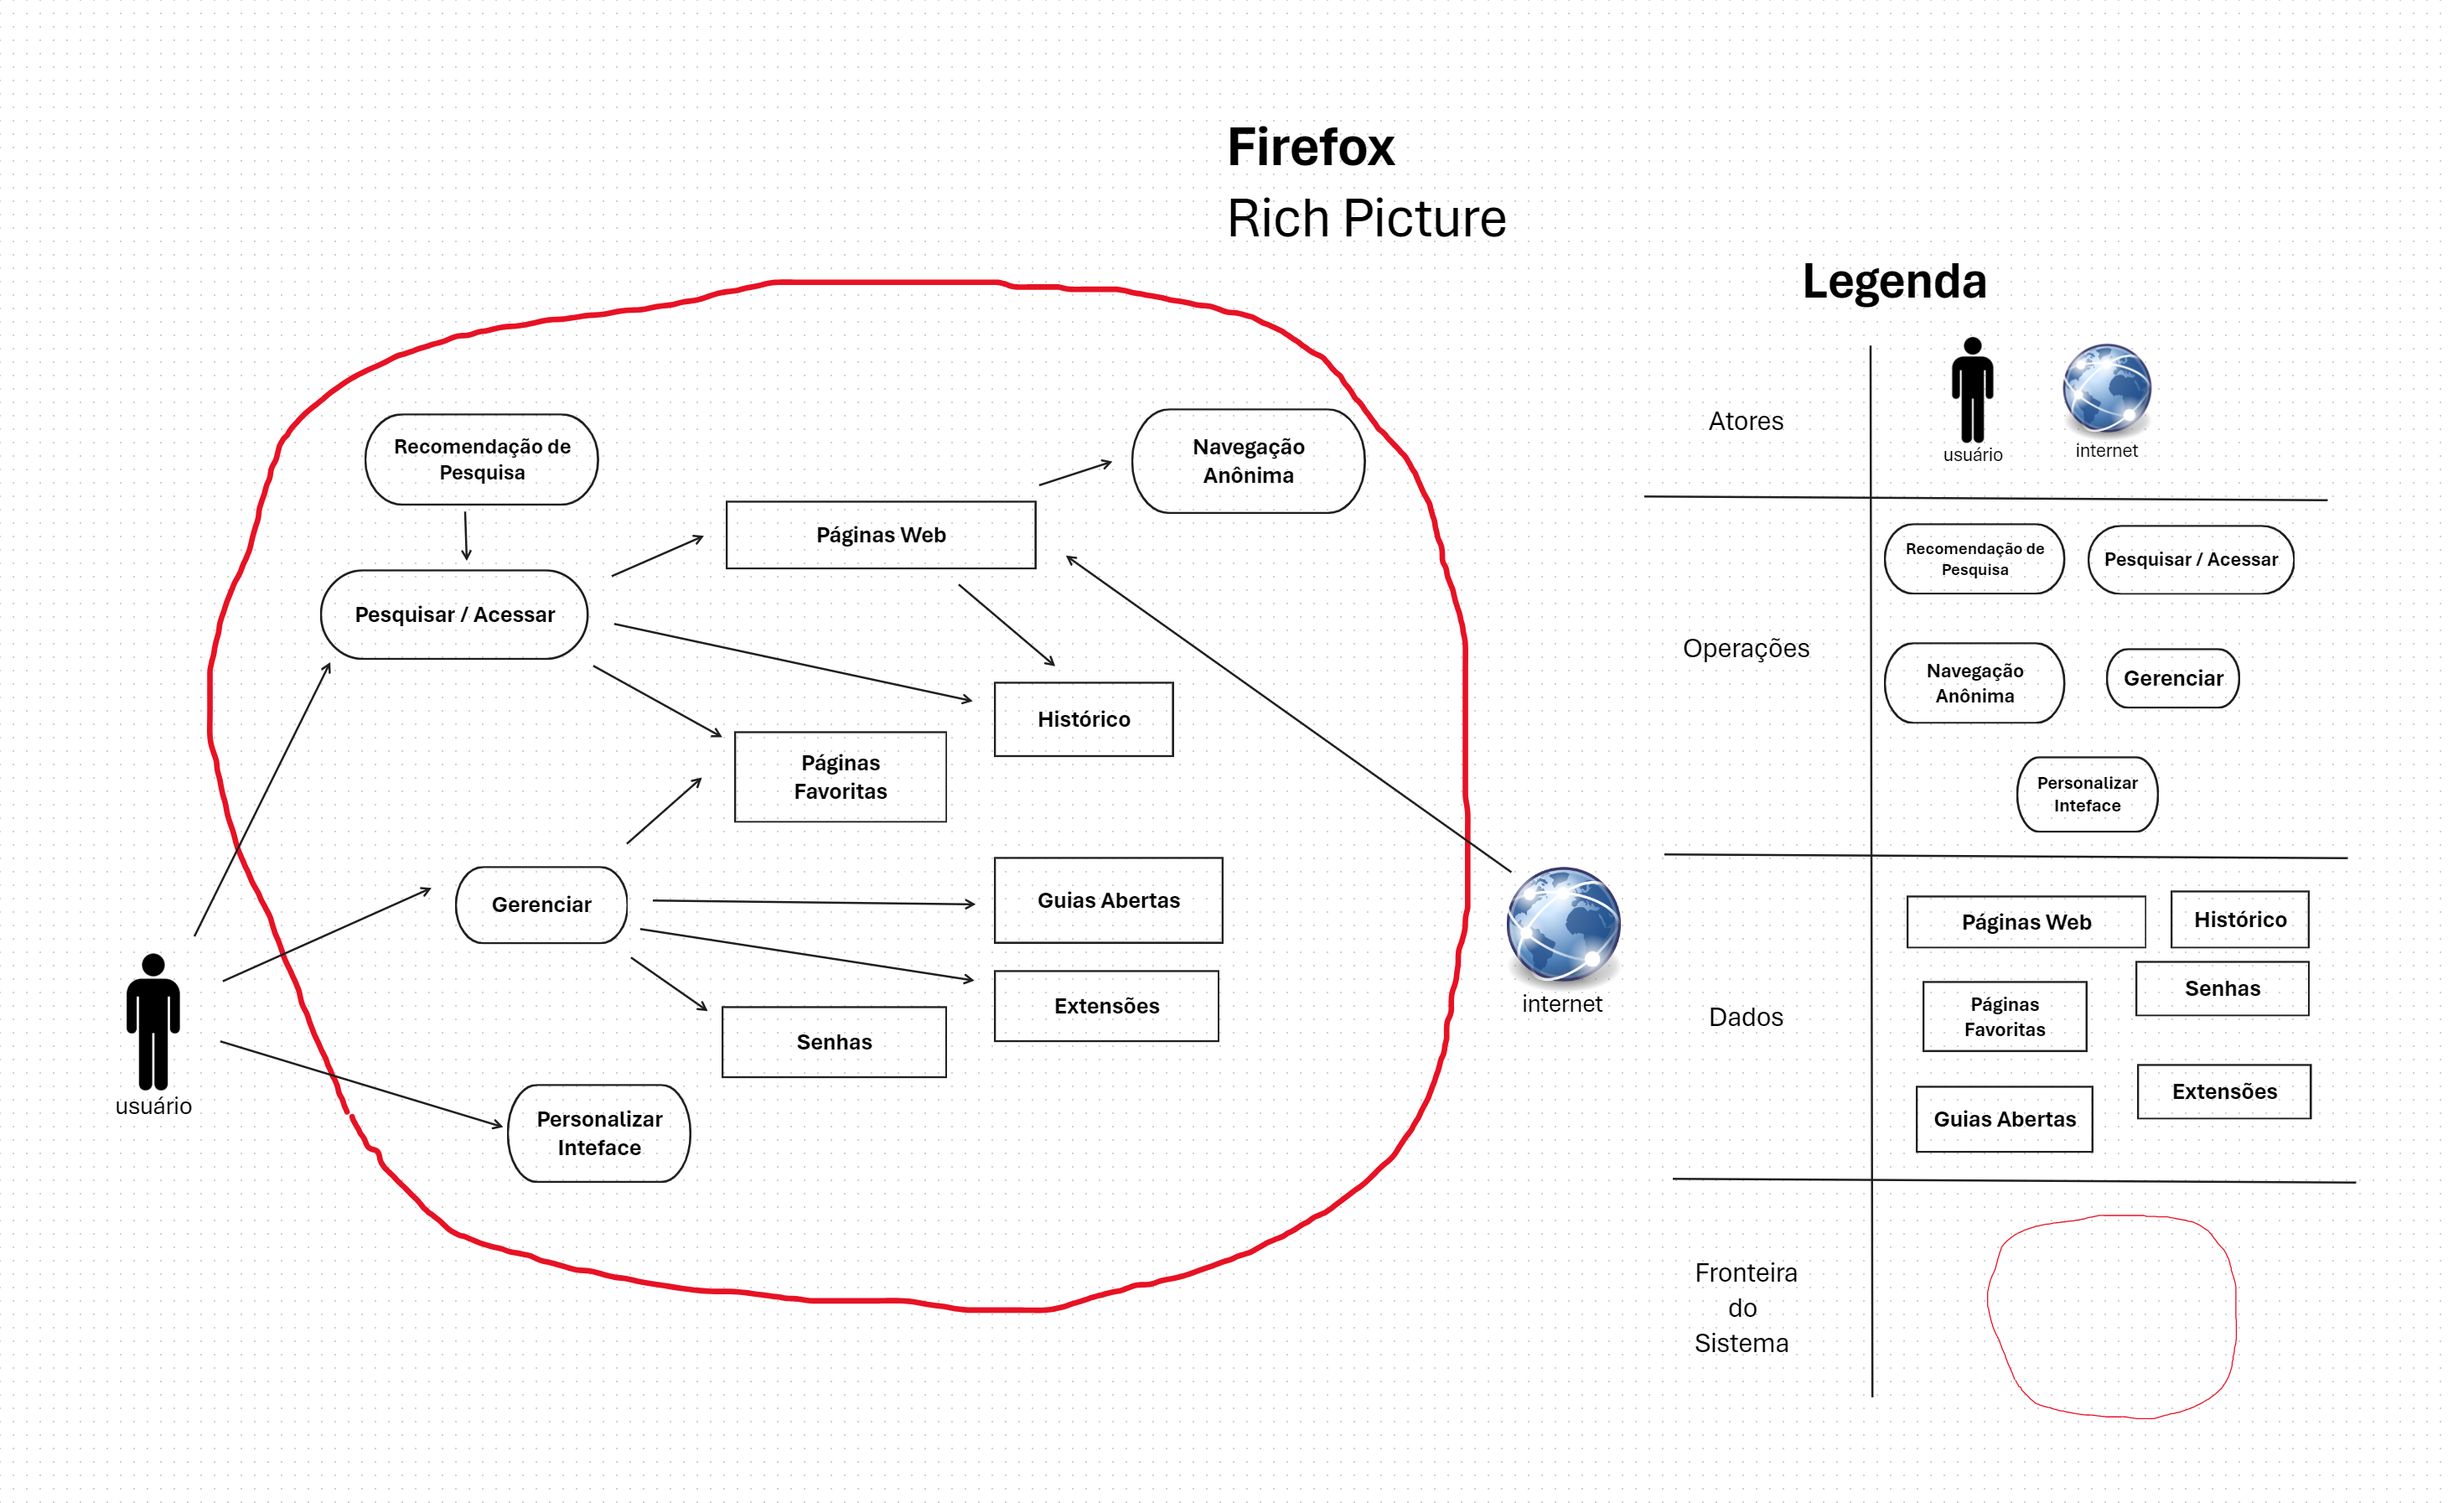
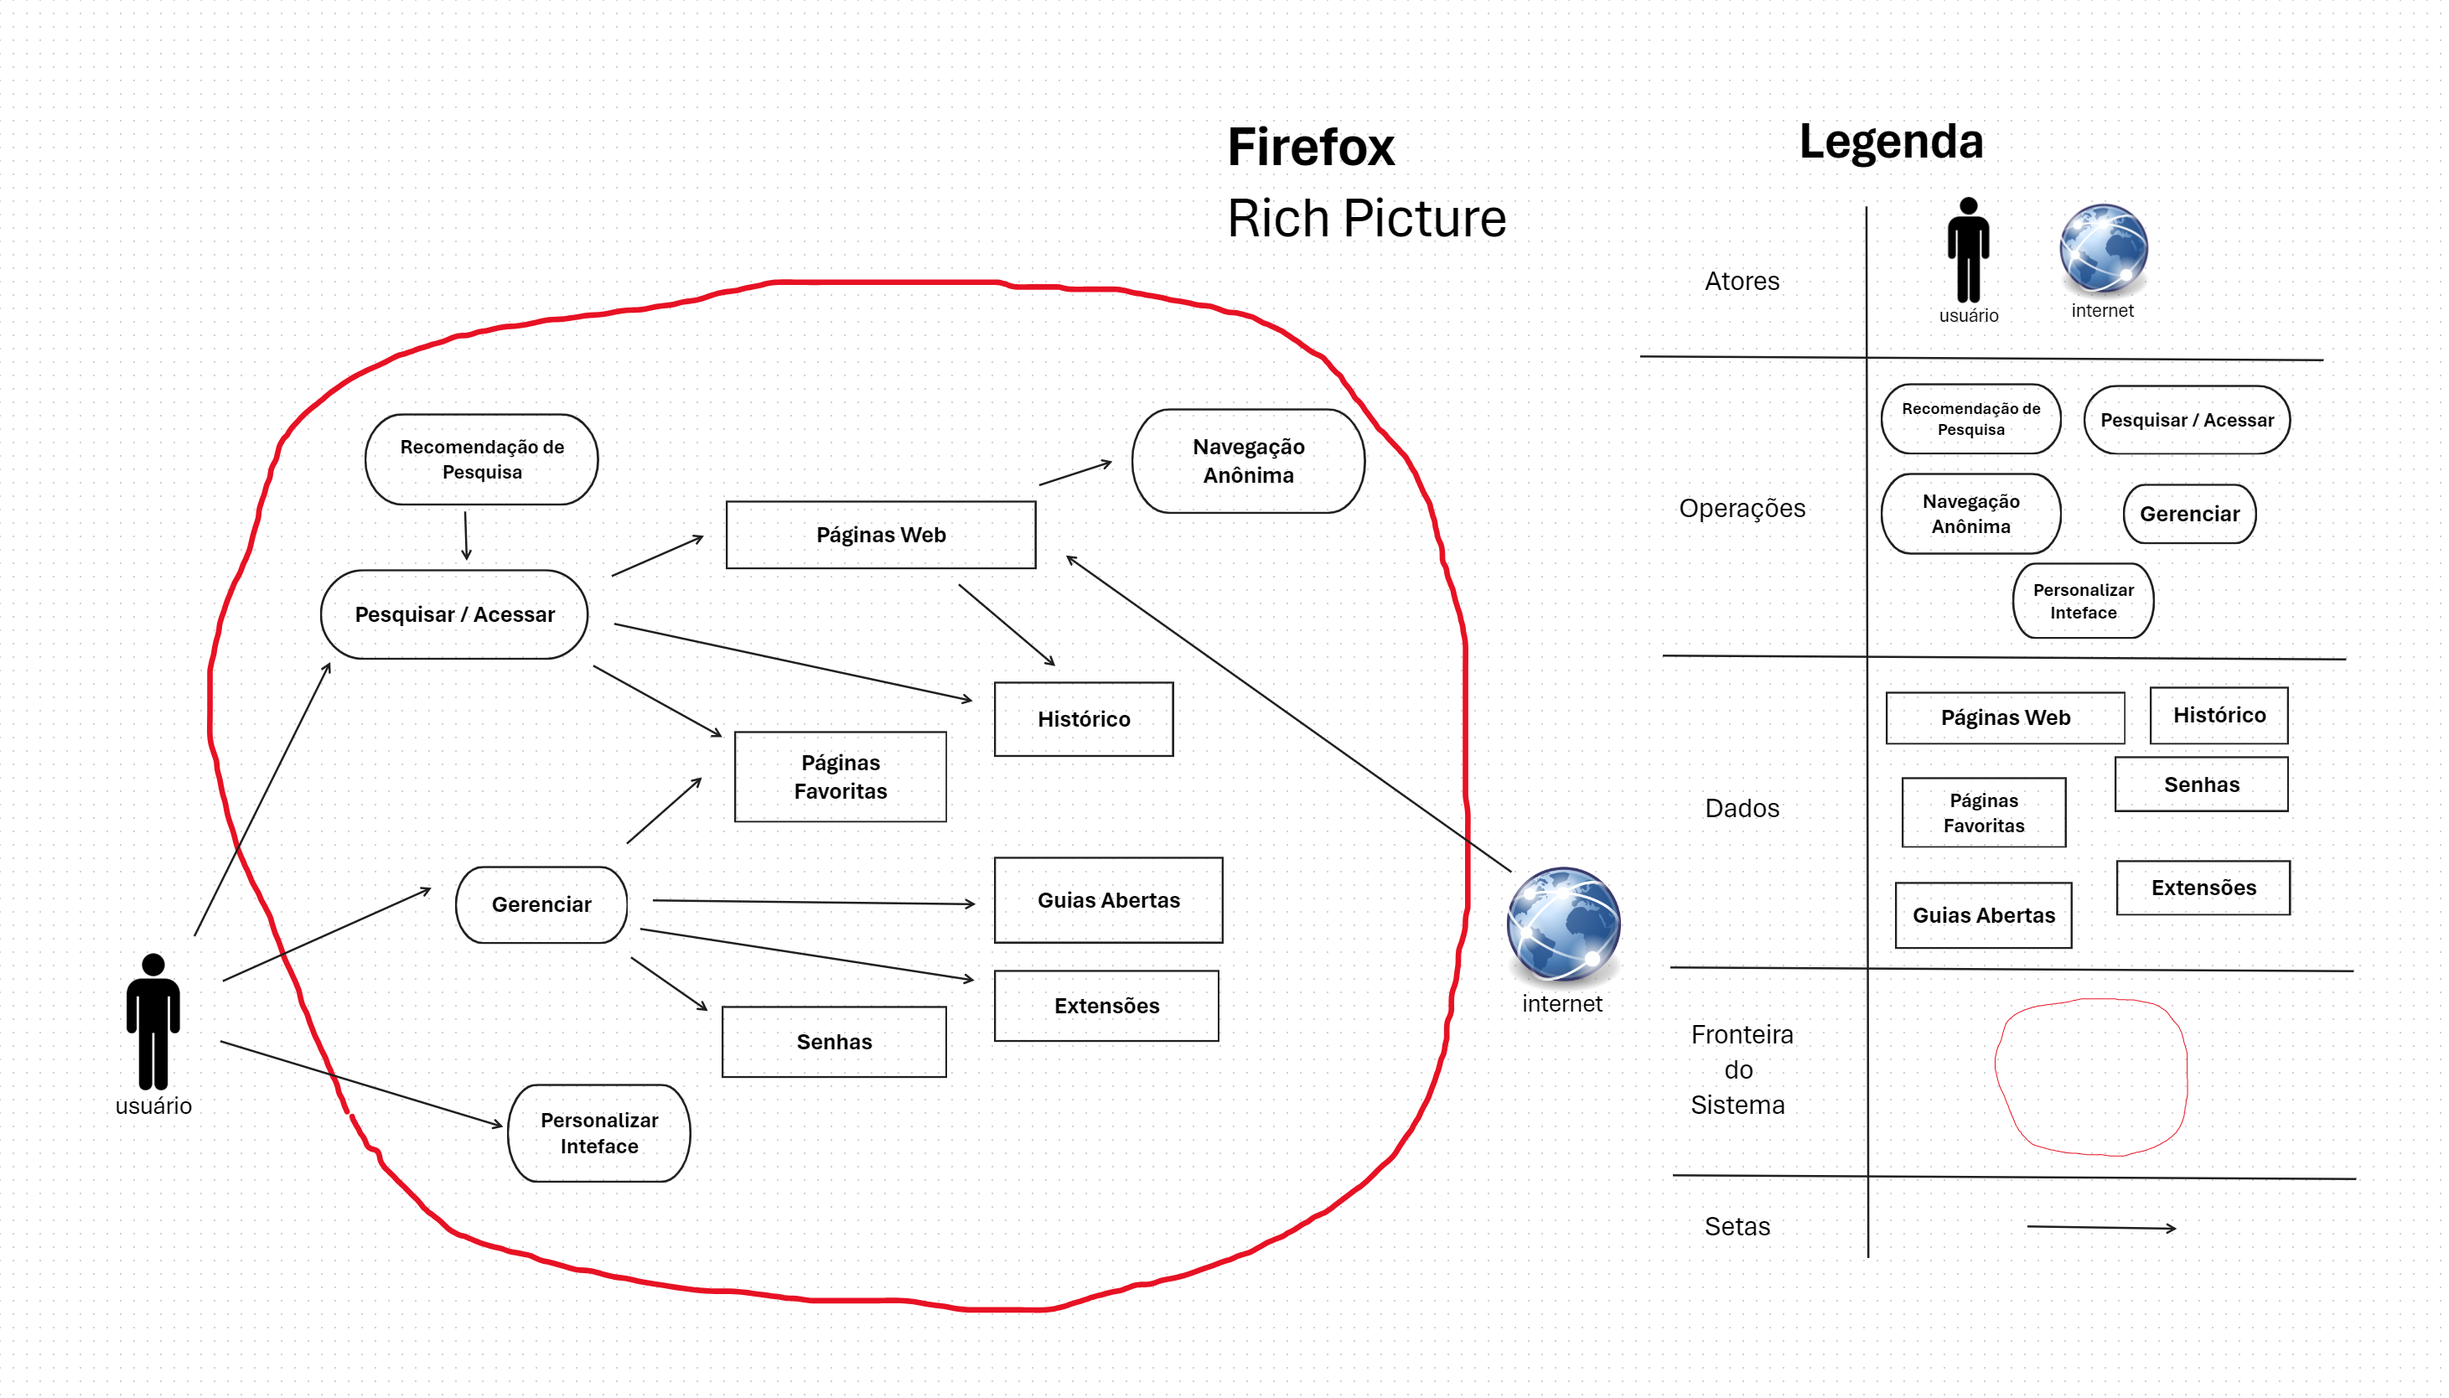
fix: corrige legenda e referencias

diff --git a/docs/pre-rastreabilidade/rich-picture.md b/docs/pre-rastreabilidade/rich-picture.md
@@ -1,22 +1,33 @@
 # Rich Picture
 
 ## Introdução
-O rich picture<sup><a href="#Referências">[1]</a></sup> é uma representação visual que ajuda a equipe a compreender um produto de software. Capta os principais relacionamentos conceituais entre as principais entidades conceituais de um sistema. O mais relevante é que o rich picture identifica as questões ou preocupaçoes dos stakeholders, ajudando, assim, a concentrar a atenção nos problemas ou nas potenciais soluções de desing.
+O rich picture é uma representação visual que ajuda a equipe a compreender um produto de software. Capta os principais relacionamentos conceituais entre as principais entidades conceituais de um sistema. O mais relevante é que o rich picture identifica as questões ou preocupaçoes dos stakeholders, ajudando, assim, a concentrar a atenção nos problemas ou nas potenciais soluções de desing.
+
 
 ## Metodologia e Ferramentas
 Analisamos Firefox a fim de conseguir elencar as principais funcionalidades do aplicativo. O software Microsoft Whiteboard foi usado para criar o Rich Picture.
 
 ## Rich Picture
 
-<font size="3"><p style="text-align: center">Figura 1: Rich Picture</p></font>
+<center>
 
-<img src="https://github.com/Requisitos-de-Software/2024.1-Firefox/blob/main/docs/images/RichPicture.png?raw=true">
+Figura 1: Rich Picture
+
+![Rich Picture](../images/RichPicture.png)
+
+Autor: [Lucas Martins](https://github.com/martinsglucas), 2024
+
+</center>
 
 ## Referências
-> [1] BENYON, David. Interação humano-computador. Traduçao de Heloısa Coimbra de Souza. 2a. ed. Sao Paulo: Person Prentice Hall, 2011. Disponível em: <https://aprender3.unb.br/pluginfile.php/2844961/mod_resource/content/1/RichPicture.pdf>. Acesso em 01 abr. 2024.
+
+1. BENYON, David. Interação humano-computador. Traduçao de Heloısa Coimbra de Souza. 2a. ed. Sao Paulo: Person Prentice Hall, 2011. Disponível em: <https://aprender3.unb.br/pluginfile.php/2844961/mod_resource/content/1/RichPicture.pdf>. Acesso em 01 abril 2024.
+2. CTEC2402 Software Development Project. Introducing Rich Pictures. Disponível em: <https://www.scribd.com/document/227529428/Rich-Picture-Guidelines> Acesso em 01 abril 2024.
 
 ## Histórico de Versões
 
 Versão  | Data | Descrição | Autor | Revisor
 -------- | ------ | ------ | ---------- | ----------
-`1.0` | 01/04/2024 | Primeira versão do Rich Picture  | [Lucas Martins](https://github.com/martinsglucas) | [Guilherme Westphall](https://github.com/west7)
+1.0 | 01/04/2024 | Primeira versão do Rich Picture  | [Lucas Martins](https://github.com/martinsglucas) | [Guilherme Westphall](https://github.com/west7)
+1.1 | 29/05/2024 | Correção da legenda | [Lucas Martins](https://github.com/martinsglucas) | [Davi Pierre](https://github.com/DaviPierre)
+
